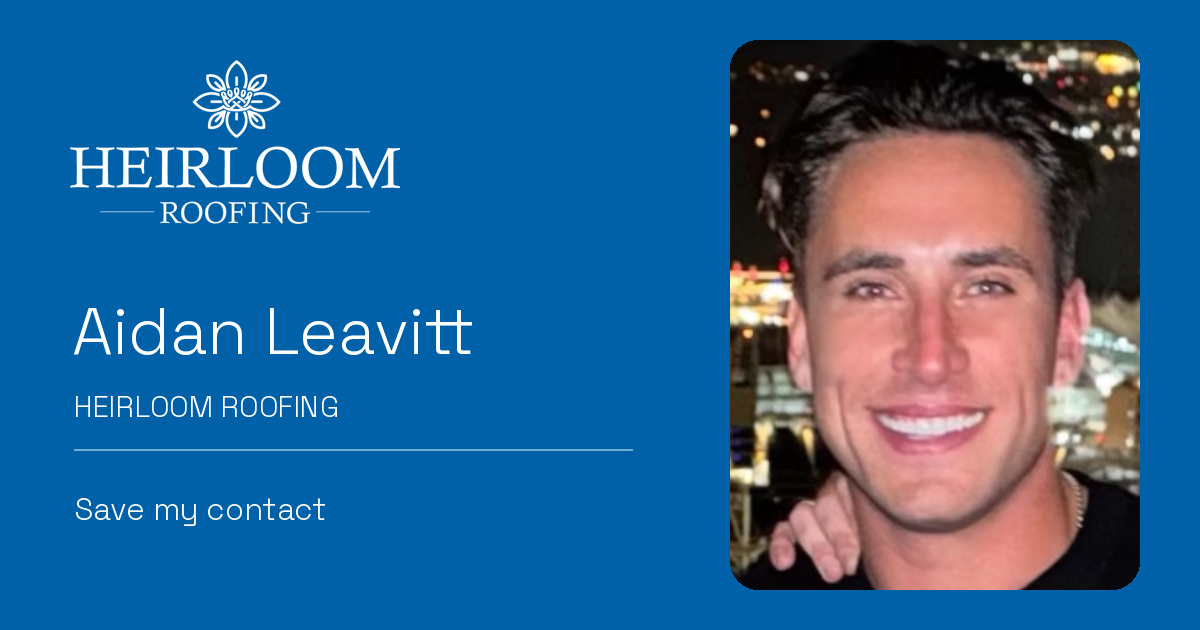
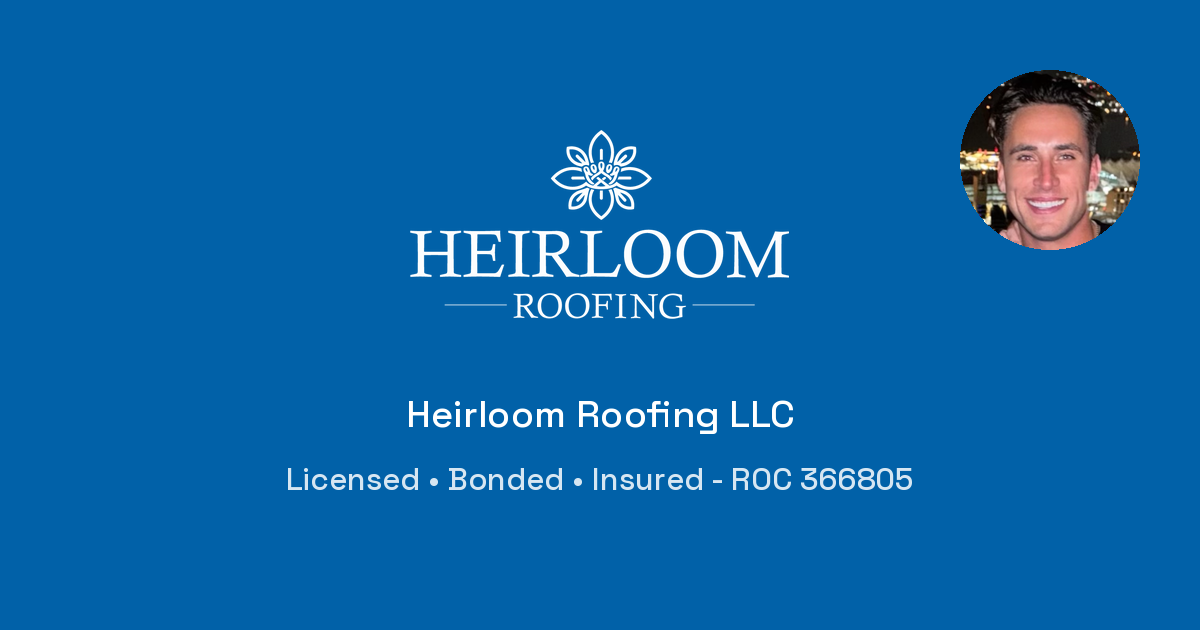
Restore original Heirloom preview with only small circular Aidan portrait

diff --git a/start/contact/index.html b/start/contact/index.html
@@ -9,15 +9,15 @@
 <meta property="og:description" content="Save Aidan's contact - Heirloom Roofing LLC, licensed Arizona contractor ROC 366805.">
 <meta property="og:type" content="website">
 <meta property="og:url" content="https://heirloomroofing.github.io/start/contact/">
-<meta property="og:image" content="https://heirloomroofing.github.io/start/aidan-share-photo.png">
+<meta property="og:image" content="https://heirloomroofing.github.io/start/aidan-share-circle-v2.png">
 <meta property="og:image:type" content="image/png">
 <meta property="og:image:width" content="1200">
 <meta property="og:image:height" content="630">
-<meta property="og:image:alt" content="Aidan Leavitt with the Heirloom Roofing logo">
+<meta property="og:image:alt" content="Original Heirloom Roofing card with a small circular photo of Aidan Leavitt">
 <meta name="twitter:card" content="summary_large_image">
 <meta name="twitter:title" content="Aidan Leavitt | Heirloom Roofing">
 <meta name="twitter:description" content="Save Aidan's contact - Heirloom Roofing.">
-<meta name="twitter:image" content="https://heirloomroofing.github.io/start/aidan-share-photo.png">
+<meta name="twitter:image" content="https://heirloomroofing.github.io/start/aidan-share-circle-v2.png">
 <style>
   :root { --brand:#0161A8; --brand-dark:#014e85; --ink:#1c2b36; --muted:#5a6b78; --paper:#f7f5f0; }
   * { box-sizing:border-box; }
